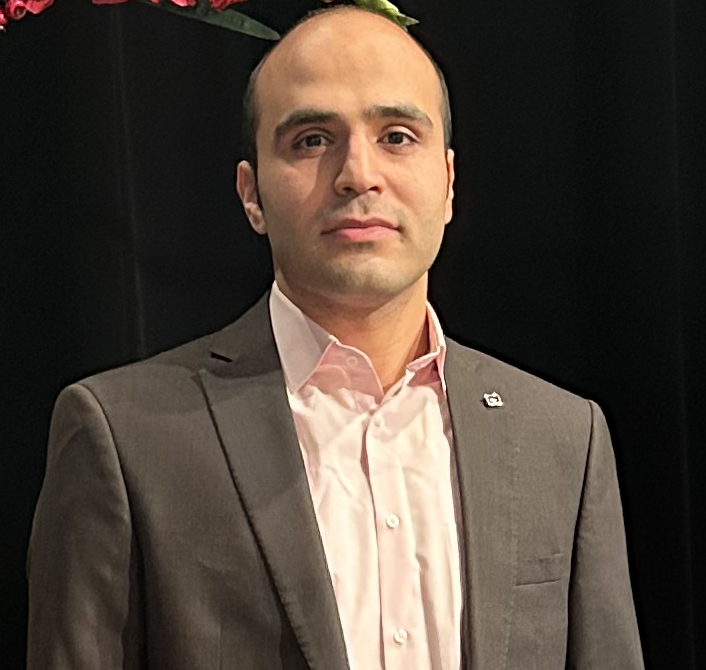
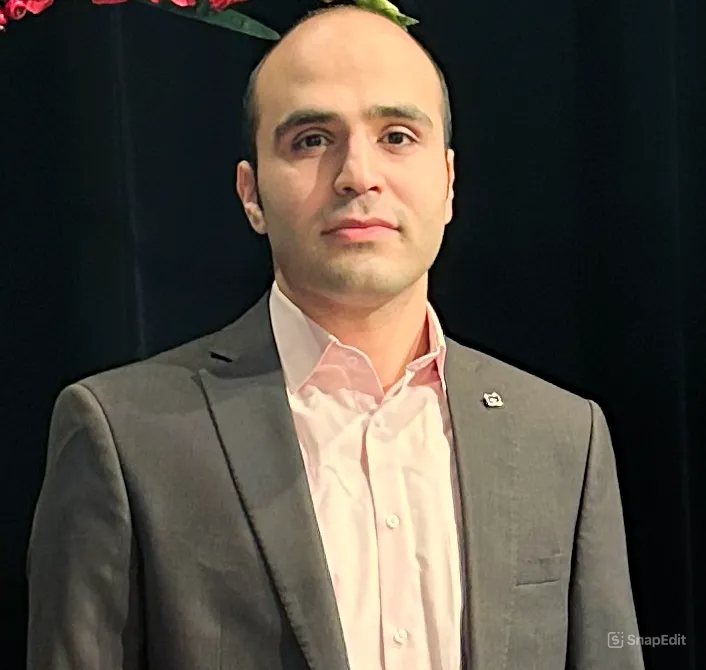
updated pic

diff --git a/_posts/DeepSeek/2024-04-02-deepseek_r1_grpo.md b/_posts/DeepSeek/2024-04-02-deepseek_r1_grpo.md
@@ -57,7 +57,7 @@ To address these challenges, DeepSeek-R1 introduces GRPO, which implements a cle
    - Enables incremental learning
    - Balances exploration and exploitation
 
-![Picture]({{site.baseurl}}/assets/posts/SimCLR_arch.png){: style="display: block; margin: 0 auto;" }Fig.1 - SimCLR framework.
+<!-- ![Picture]({{site.baseurl}}/assets/posts/SimCLR_arch.png){: style="display: block; margin: 0 auto;" }Fig.1 - SimCLR framework. -->
 ## Loss Function Design
 
 The key innovation is in designing the loss function to maintain stability while allowing for meaningful updates:
